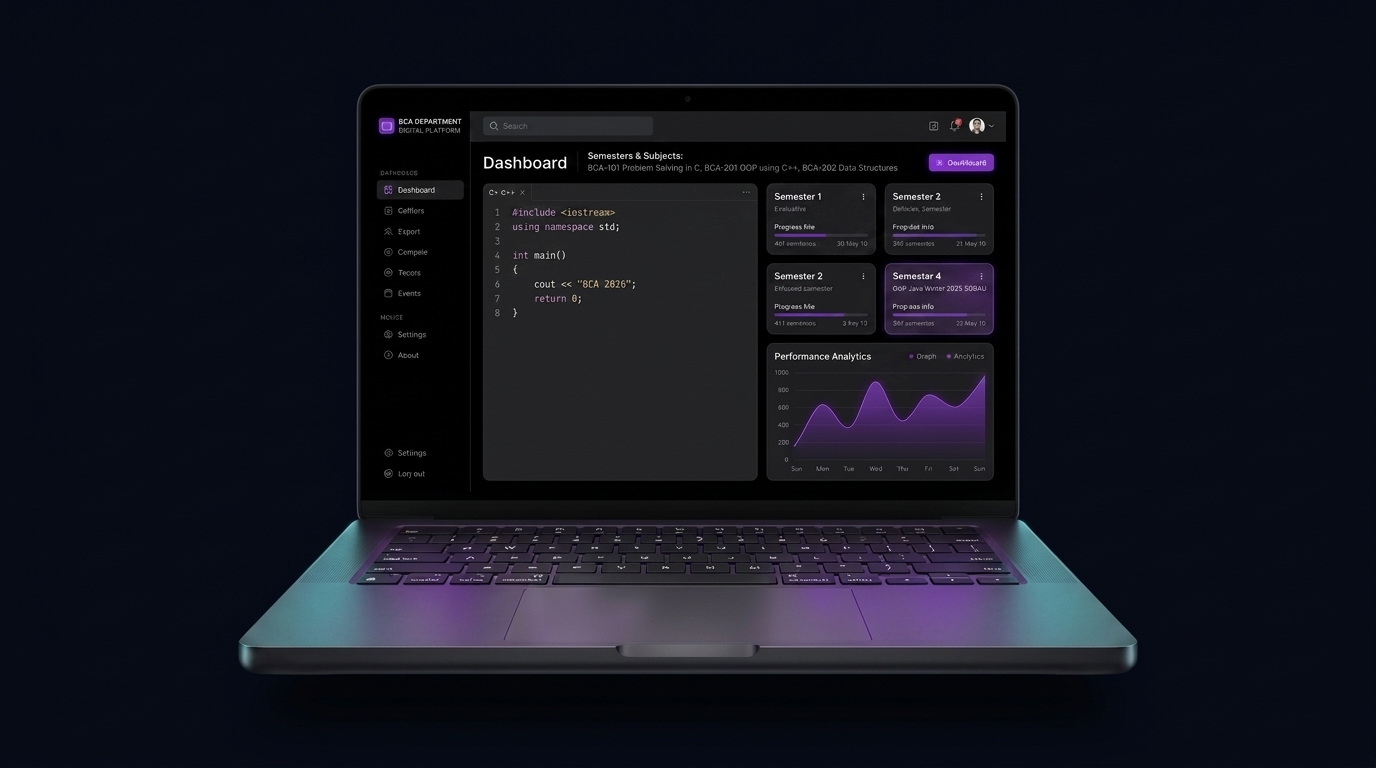
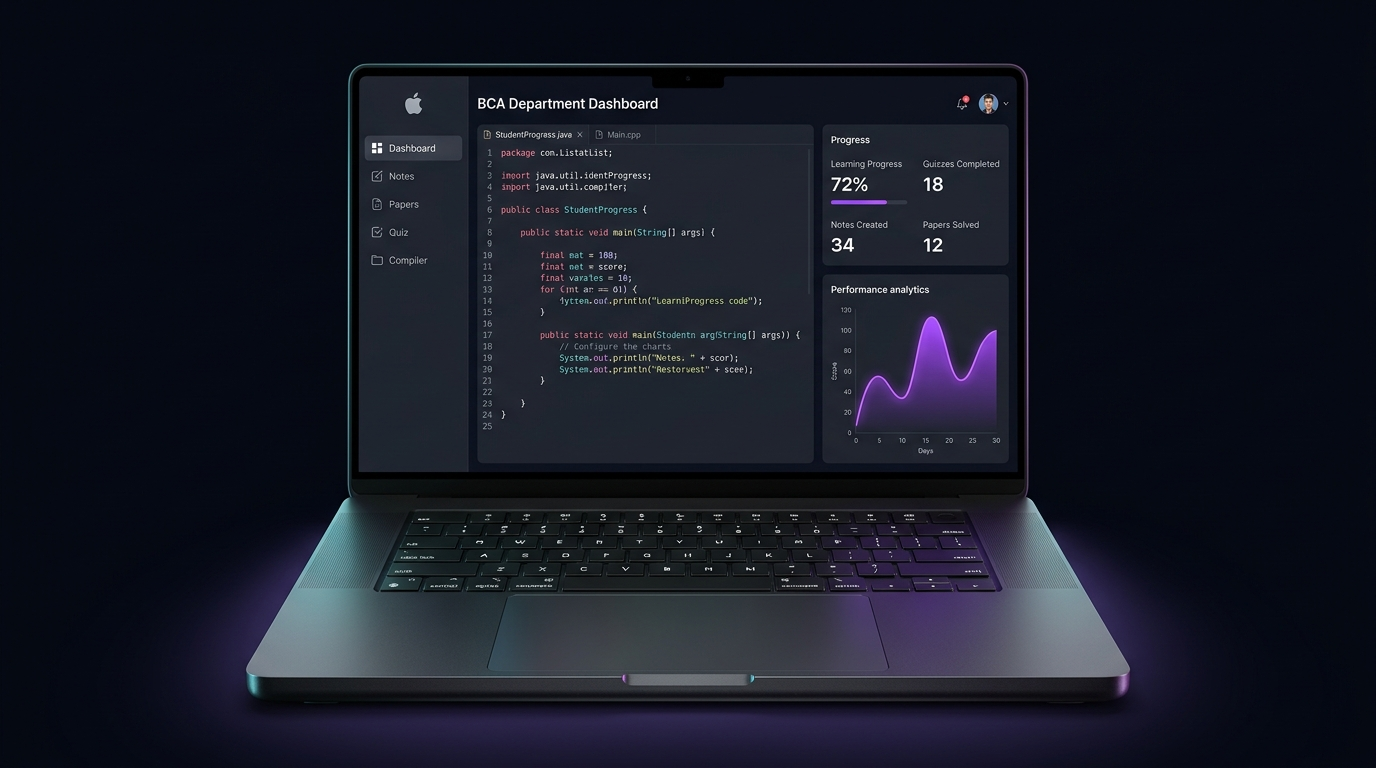
Improve premium hero section layout

Changed region(s): [[0.125, 0.0625, 0.8438, 1.0]]

diff --git a/src/styles/HeroWow.css b/src/styles/HeroWow.css
@@ -50,11 +50,11 @@
 /* Split-screen layout */
 .hero-grid-split {
   display: grid;
-  grid-template-columns: 1.1fr 0.9fr;
+  grid-template-columns: 0.85fr 1.15fr;
   width: 100%;
-  max-width: 1200px;
+  max-width: 1380px;
   align-items: center;
-  gap: 48px;
+  gap: 40px;
   position: relative;
   z-index: 10;
 }
@@ -63,7 +63,7 @@
   display: flex;
   flex-direction: column;
   justify-content: center;
-  max-width: 580px;
+  max-width: 560px;
   animation: heroTextReveal 1.2s cubic-bezier(0.16, 1, 0.3, 1) forwards;
 }
 
@@ -199,25 +199,24 @@
   box-shadow: 0 8px 30px rgba(255, 255, 255, 0.05);
 }
 
-/* Right Side Centerpiece: Laptop Mockup */
+/* Right Side Centerpiece: Large Floating Laptop Mockup */
 .hero-image-side {
   display: flex;
   justify-content: center;
   align-items: center;
   perspective: 1000px;
+  width: 100%;
 }
 
 .hero-image-wrapper {
   position: relative;
   width: 100%;
-  max-width: 520px;
-  border-radius: 18px;
-  border: 1px solid rgba(139, 92, 246, 0.3);
-  background: rgba(11, 11, 18, 0.6);
-  box-shadow: 
-    0 30px 80px rgba(0, 0, 0, 0.8),
-    0 0 50px rgba(139, 92, 246, 0.18);
-  overflow: hidden;
+  max-width: 780px;
+  background: transparent;
+  border: none;
+  box-shadow: none;
+  border-radius: 0;
+  overflow: visible;
   transform-style: preserve-3d;
   will-change: transform;
 }
@@ -226,14 +225,16 @@
   width: 100%;
   height: auto;
   display: block;
-  transition: transform 0.5s ease;
+  filter: drop-shadow(0 25px 40px rgba(0, 0, 0, 0.85)) drop-shadow(0 0 50px rgba(168, 85, 247, 0.35));
+  transition: transform 0.4s cubic-bezier(0.16, 1, 0.3, 1), filter 0.4s ease;
 }
 
 .hero-image-overlay-glow {
   position: absolute;
-  inset: 0;
-  background: radial-gradient(circle at 50% 40%, rgba(168, 85, 247, 0.15) 0%, transparent 60%);
+  inset: -10%;
+  background: radial-gradient(circle at 50% 50%, rgba(168, 85, 247, 0.28) 0%, rgba(147, 51, 234, 0.1) 50%, transparent 75%);
   pointer-events: none;
+  z-index: -1;
 }
 
 /* Scroll indicator */
